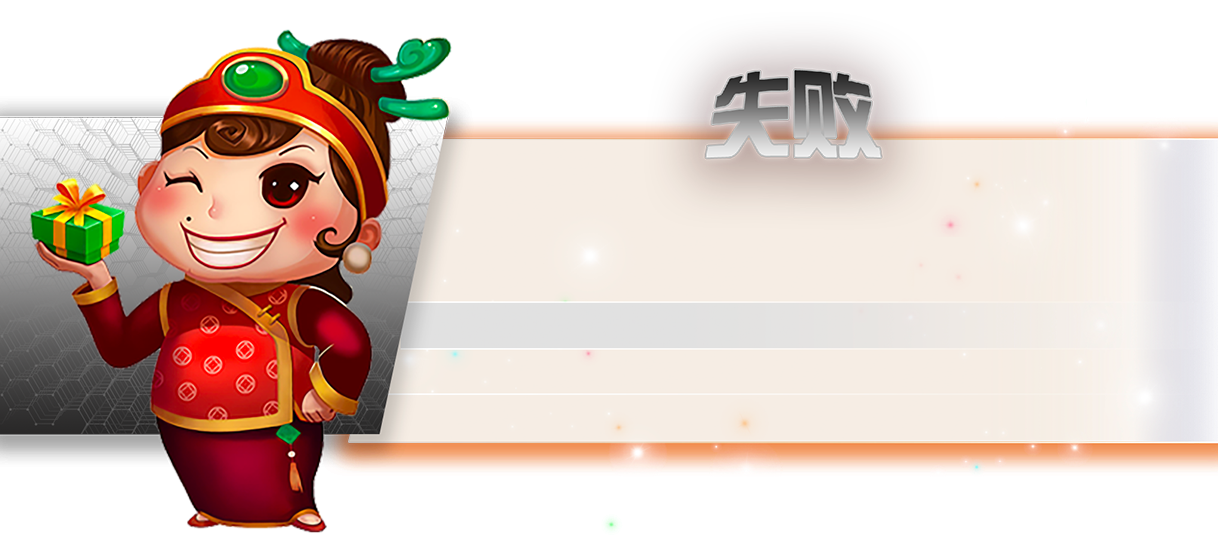
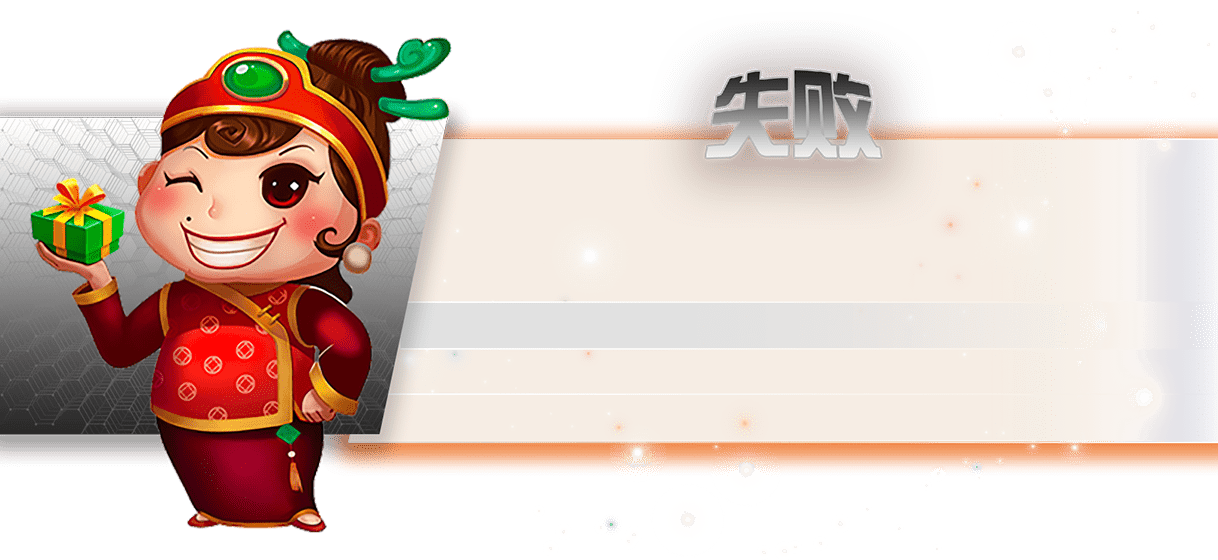
no message

diff --git a/pages/poker/socket.vue b/pages/poker/socket.vue
@@ -1,11 +1,11 @@
 <template>
 	<view class="content">
 
-	<!-- 	<view class="testsend">
+		<view class="testsend">
 			<input type="text" v-model='selfuserid' style="color:#fff;border:1px solid #f00" />
 			<input type="text" v-model='selfToken' style="color:#fff;border:1px solid #f00" />
 		</view>
- -->
+
 
 		<view class="topbox">
 			<!-- 返回 -->
@@ -1867,7 +1867,7 @@
 
 
 	page {
-		background: url(../../static/image/bg.webp) no-repeat center;
+		background: url(../../static/image/bg.jpg) no-repeat center;
 		background-size: 100% 100%;
 		height: 100%;
 		width: 100%;
@@ -2623,7 +2623,7 @@
 	.accountbox {
 		width: 100%;
 		height: 100%;
-		background: url("../../static/image/maskbg.webp");
+		background: url("../../static/image/maskbg.png");
 		background-size: 100% 100%;
 		position: absolute;
 		top: 0;
@@ -2632,7 +2632,7 @@
 	}
 
 	.accountbox.win .account-bg {
-		background: url("../../static/image/winbg.webp") no-repeat;
+		background: url("../../static/image/winbg.png") no-repeat;
 		background-size: 8.3rem 3.7rem;
 	}
 
@@ -2647,7 +2647,7 @@
 	}
 
 	.accountbox.lose .account-bg {
-		background: url("../../static/image/losebg.webp") no-repeat;
+		background: url("../../static/image/losebg.png") no-repeat;
 		background-size: 8.3rem 3.7rem;
 	}
 
